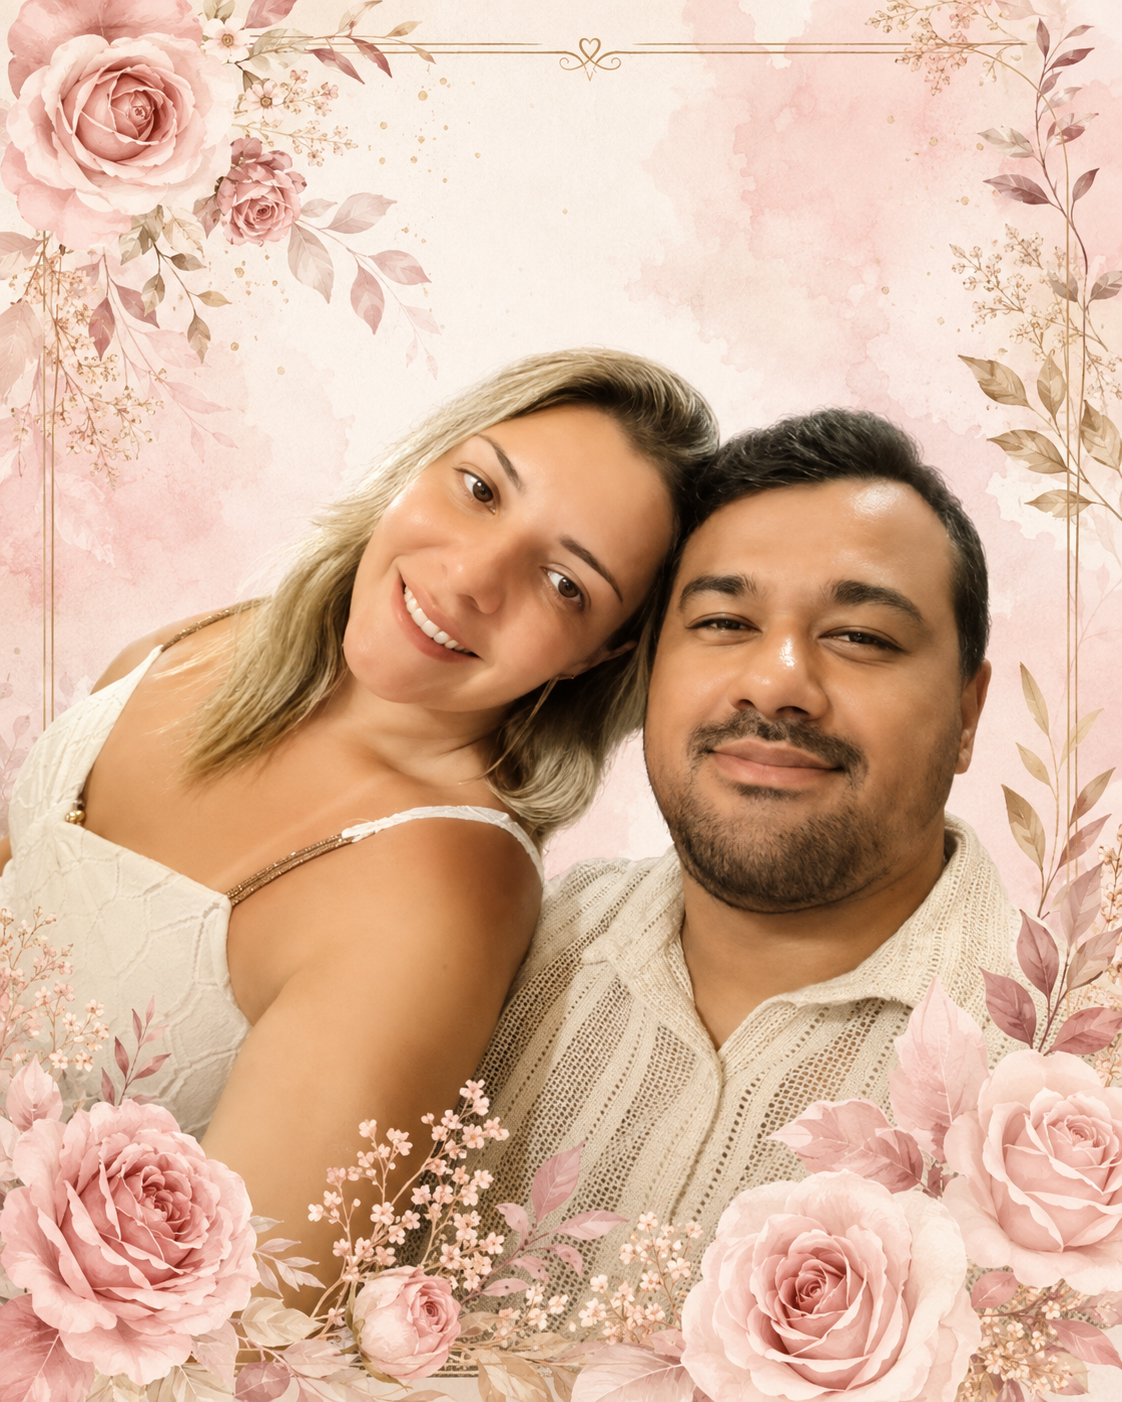
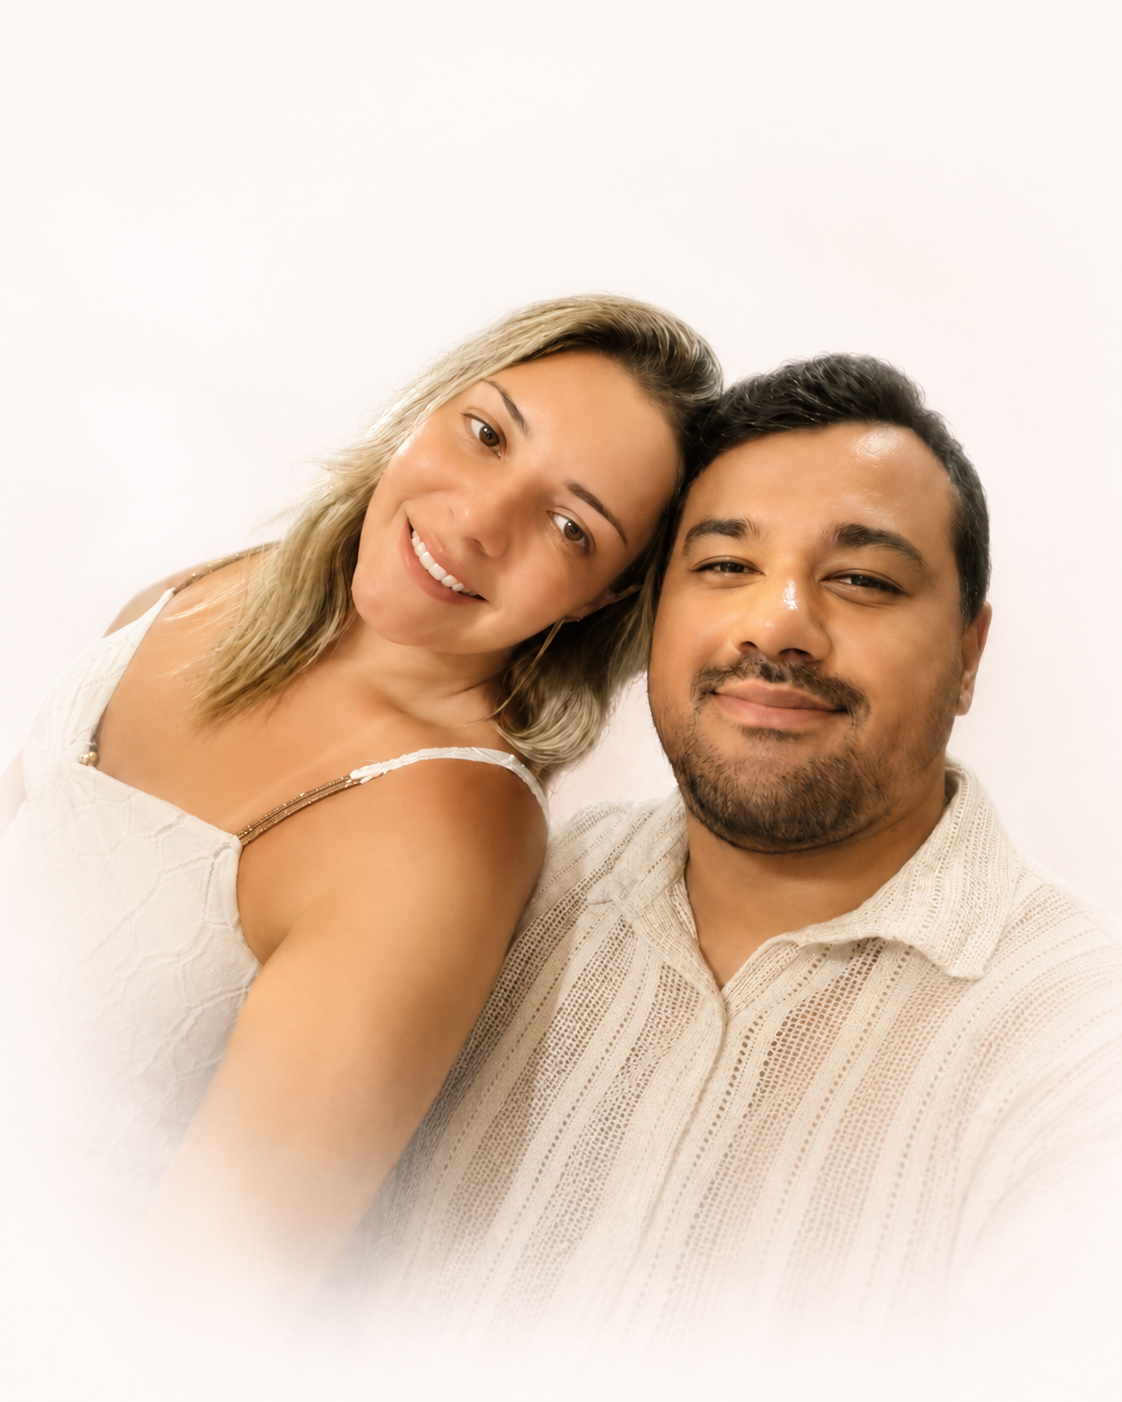
5

diff --git a/components/Ornamentos.tsx b/components/Ornamentos.tsx
@@ -192,6 +192,15 @@ export function ArranjoCanto({ className = "" }: { className?: string }) {
 // do centro geometrico. Valores medidos, nao estimados.
 const MONOGRAMA_X = -1.91;
 const MONOGRAMA_Y = 3.79;
+const MONOGRAMA_TAMANHO = 36;
+
+// Deliberadamente inline, e nao via classe CSS: atributo de apresentacao perde
+// para regra de classe, e tamanho e deslocamento precisam andar juntos. Assim o
+// lacre nao depende do estado do globals.css.
+const ESTILO_MONOGRAMA: React.CSSProperties = {
+  fontFamily: "var(--fonte-script), 'Snell Roundhand', cursive",
+  fontSize: MONOGRAMA_TAMANHO,
+};
 
 /** Lacre de cera com o monograma. */
 export function Lacre({ iniciais }: { iniciais: string }) {
@@ -239,7 +248,7 @@ export function Lacre({ iniciais }: { iniciais: string }) {
         x={50 + MONOGRAMA_X} y={50 + MONOGRAMA_Y}
         textAnchor="middle"
         dominantBaseline="central"
-        className="lacre-monograma"
+        style={ESTILO_MONOGRAMA}
         fill="var(--cera-sombra)"
       >
         {iniciais}
@@ -248,7 +257,7 @@ export function Lacre({ iniciais }: { iniciais: string }) {
         x={50 + MONOGRAMA_X} y={50 + MONOGRAMA_Y - 0.8}
         textAnchor="middle"
         dominantBaseline="central"
-        className="lacre-monograma"
+        style={ESTILO_MONOGRAMA}
         fill="var(--cera-luz)"
         opacity="0.9"
       >
